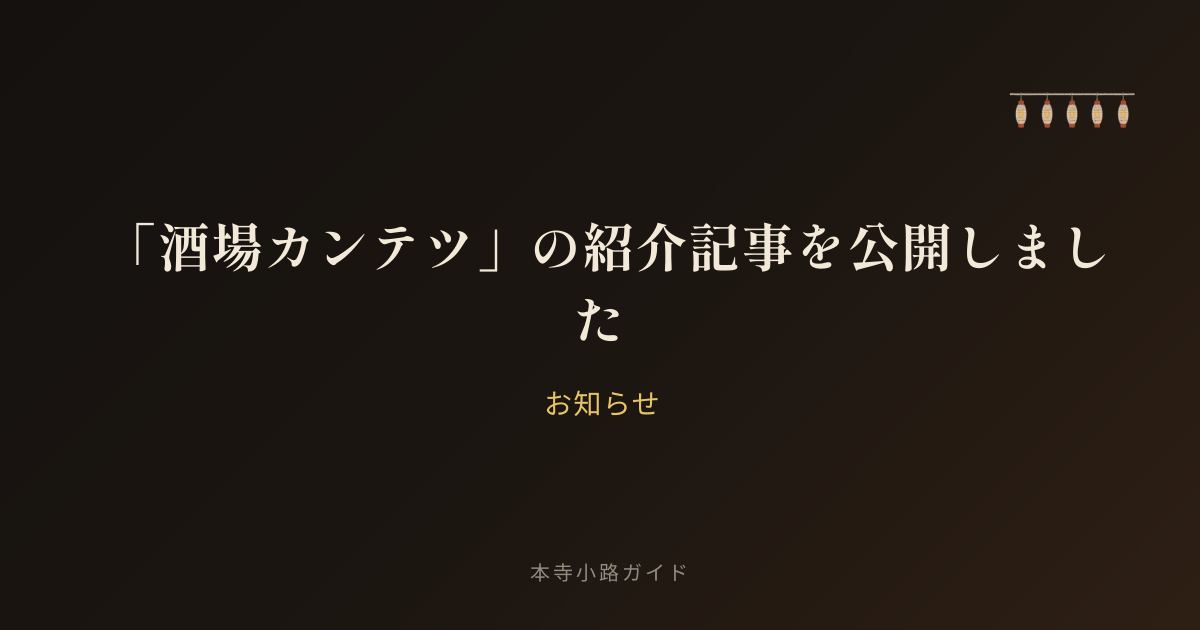
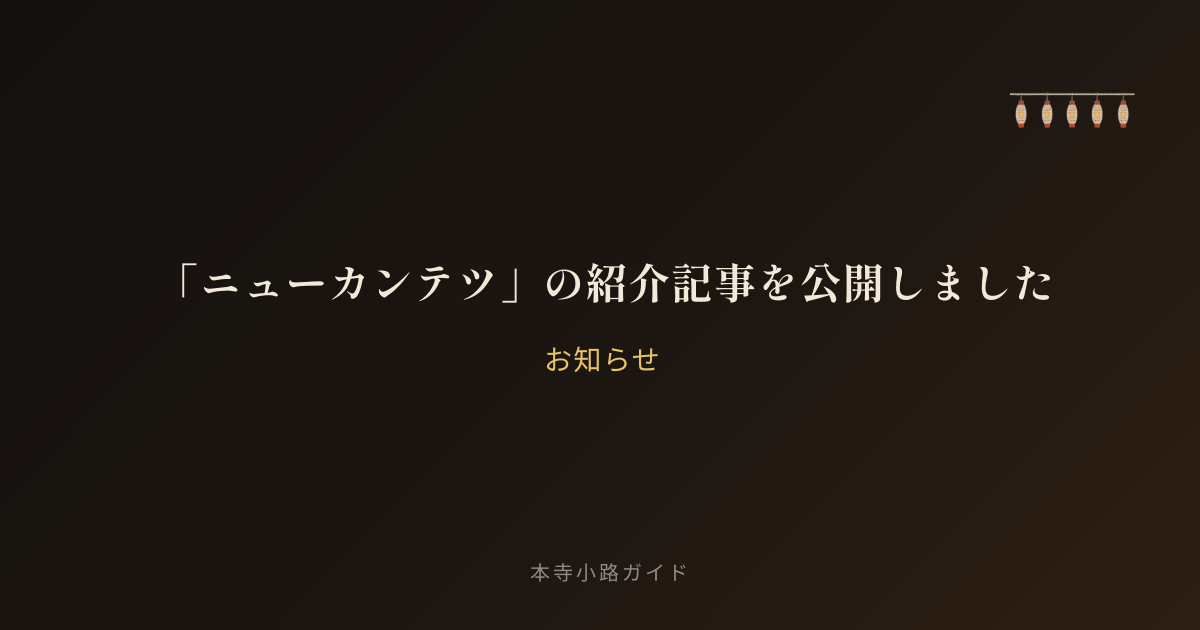
fix(spots): 正確な営業時間に修正し、slugをnew-kantetsuに変更
- 飲み屋営業（平日17:00〜21:00・土日祝14:00〜21:00）とラーメン営業
  （金・土・日曜11:30〜14:00）を区別して構造化hoursに反映
  （金曜は昼夜の間が空き、土日はラーメン→飲み屋が切れ目なく続く）
- ファイル名・URLスラッグを sakaba-kantetsu → new-kantetsu に変更
  （本日公開したばかりで外部露出が無いため実施）
- 関連するOGP画像・Instagramフィード画像を新タイトルで再生成
- ニュース記事（公開告知）のタイトル・本文・relatedSpotSlugも追従
- scripts/match-youtube.ts のキャッシュ（matched-candidates.json）の
  spotSlug/spotTitleも追従

Changed region(s): [[0.1233, 0.3317, 0.925, 0.6635]]

diff --git a/src/content/news/sakaba-kantetsu-published.md b/src/content/news/sakaba-kantetsu-published.md
@@ -1,11 +1,11 @@
 ---
-title: "「酒場カンテツ」の紹介記事を公開しました"
+title: "「ニューカンテツ」の紹介記事を公開しました"
 pubDate: 2026-09-29
 category: "NEW SPOT"
-summary: "本寺小路の居酒屋「酒場カンテツ」の紹介記事を公開しました。三条市の本寺小路・本町エリアで親しまれる「酒場カンテツ」。名物のサバサラをはじめ趣向を凝らした料理と名物ドリンク「金魚」が楽しめます。コの字カウンターの温かい店内で1軒目から締めまで幅広く利用できます。"
-relatedSpotSlug: "sakaba-kantetsu"
+summary: "本寺小路の居酒屋「ニューカンテツ」の紹介記事を公開しました。三条市の本寺小路・本町エリアで親しまれる「ニューカンテツ」。名物のサバサラをはじめ趣向を凝らした料理と名物ドリンク「金魚」が楽しめます。コの字カウンターの温かい店内で1軒目から締めまで幅広く利用できます。"
+relatedSpotSlug: "new-kantetsu"
 ---
 
-本寺小路の居酒屋「酒場カンテツ」の紹介記事を公開しました。三条市の本寺小路・本町エリアで親しまれる「酒場カンテツ」。名物のサバサラをはじめ趣向を凝らした料理と名物ドリンク「金魚」が楽しめます。コの字カウンターの温かい店内で1軒目から締めまで幅広く利用できます。
+本寺小路の居酒屋「ニューカンテツ」の紹介記事を公開しました。三条市の本寺小路・本町エリアで親しまれる「ニューカンテツ」。名物のサバサラをはじめ趣向を凝らした料理と名物ドリンク「金魚」が楽しめます。コの字カウンターの温かい店内で1軒目から締めまで幅広く利用できます。
 
 詳しくは店舗ページをご覧ください。

diff --git a/src/content/spots/new-kantetsu.md b/src/content/spots/new-kantetsu.md
@@ -7,14 +7,23 @@ placeId: "ChIJe0YmKADj9F8R_9_giXcGJFg"
 budget: "￥2,000〜￥4,000"
 budgetMin: 2000
 budgetMax: 4000
-openHours: "火・水・木・金曜 17:00〜21:00、土・日曜・祝日 14:00〜21:00"
+openHours: "飲み屋営業 平日17:00〜21:00・土日祝14:00〜21:00／ラーメン営業 金・土・日曜11:30〜14:00"
 regularHoliday: "月曜日"
 hours:
-  - days: [2, 3, 4, 5]
+  # 火・水・木: 飲み屋営業のみ
+  - days: [2, 3, 4]
     open: "17:00"
     close: "21:00"
+  # 金: 昼はラーメン、夜は飲み屋（間の14:00〜17:00は休み）
+  - days: [5]
+    open: "11:30"
+    close: "14:00"
+  - days: [5]
+    open: "17:00"
+    close: "21:00"
+  # 土・日: ラーメン→飲み屋が11:30〜21:00で切れ目なく続く
   - days: [0, 6]
-    open: "14:00"
+    open: "11:30"
     close: "21:00"
 vibes:
   - "カウンター席あり"
@@ -64,7 +73,7 @@ pubDate: 2026-09-29
 
 ## 1軒目から締めまで！様々なシーンで寄り添う街の酒場
 
-ニューカンテツは、毎週金・土・日曜の昼はラーメン営業を行っており、それ以外の営業日は夜の酒場として賑わっています。
+ニューカンテツは、毎週金・土・日曜の11:30〜14:00はラーメン営業を行っており、それ以外の時間は夜の酒場（平日17:00〜21:00、土日祝14:00〜21:00）として賑わっています。
 
 予算目安も2,000円から4,000円と手頃で、気軽に足を運ぶことができるのも嬉しいポイントです。
 
